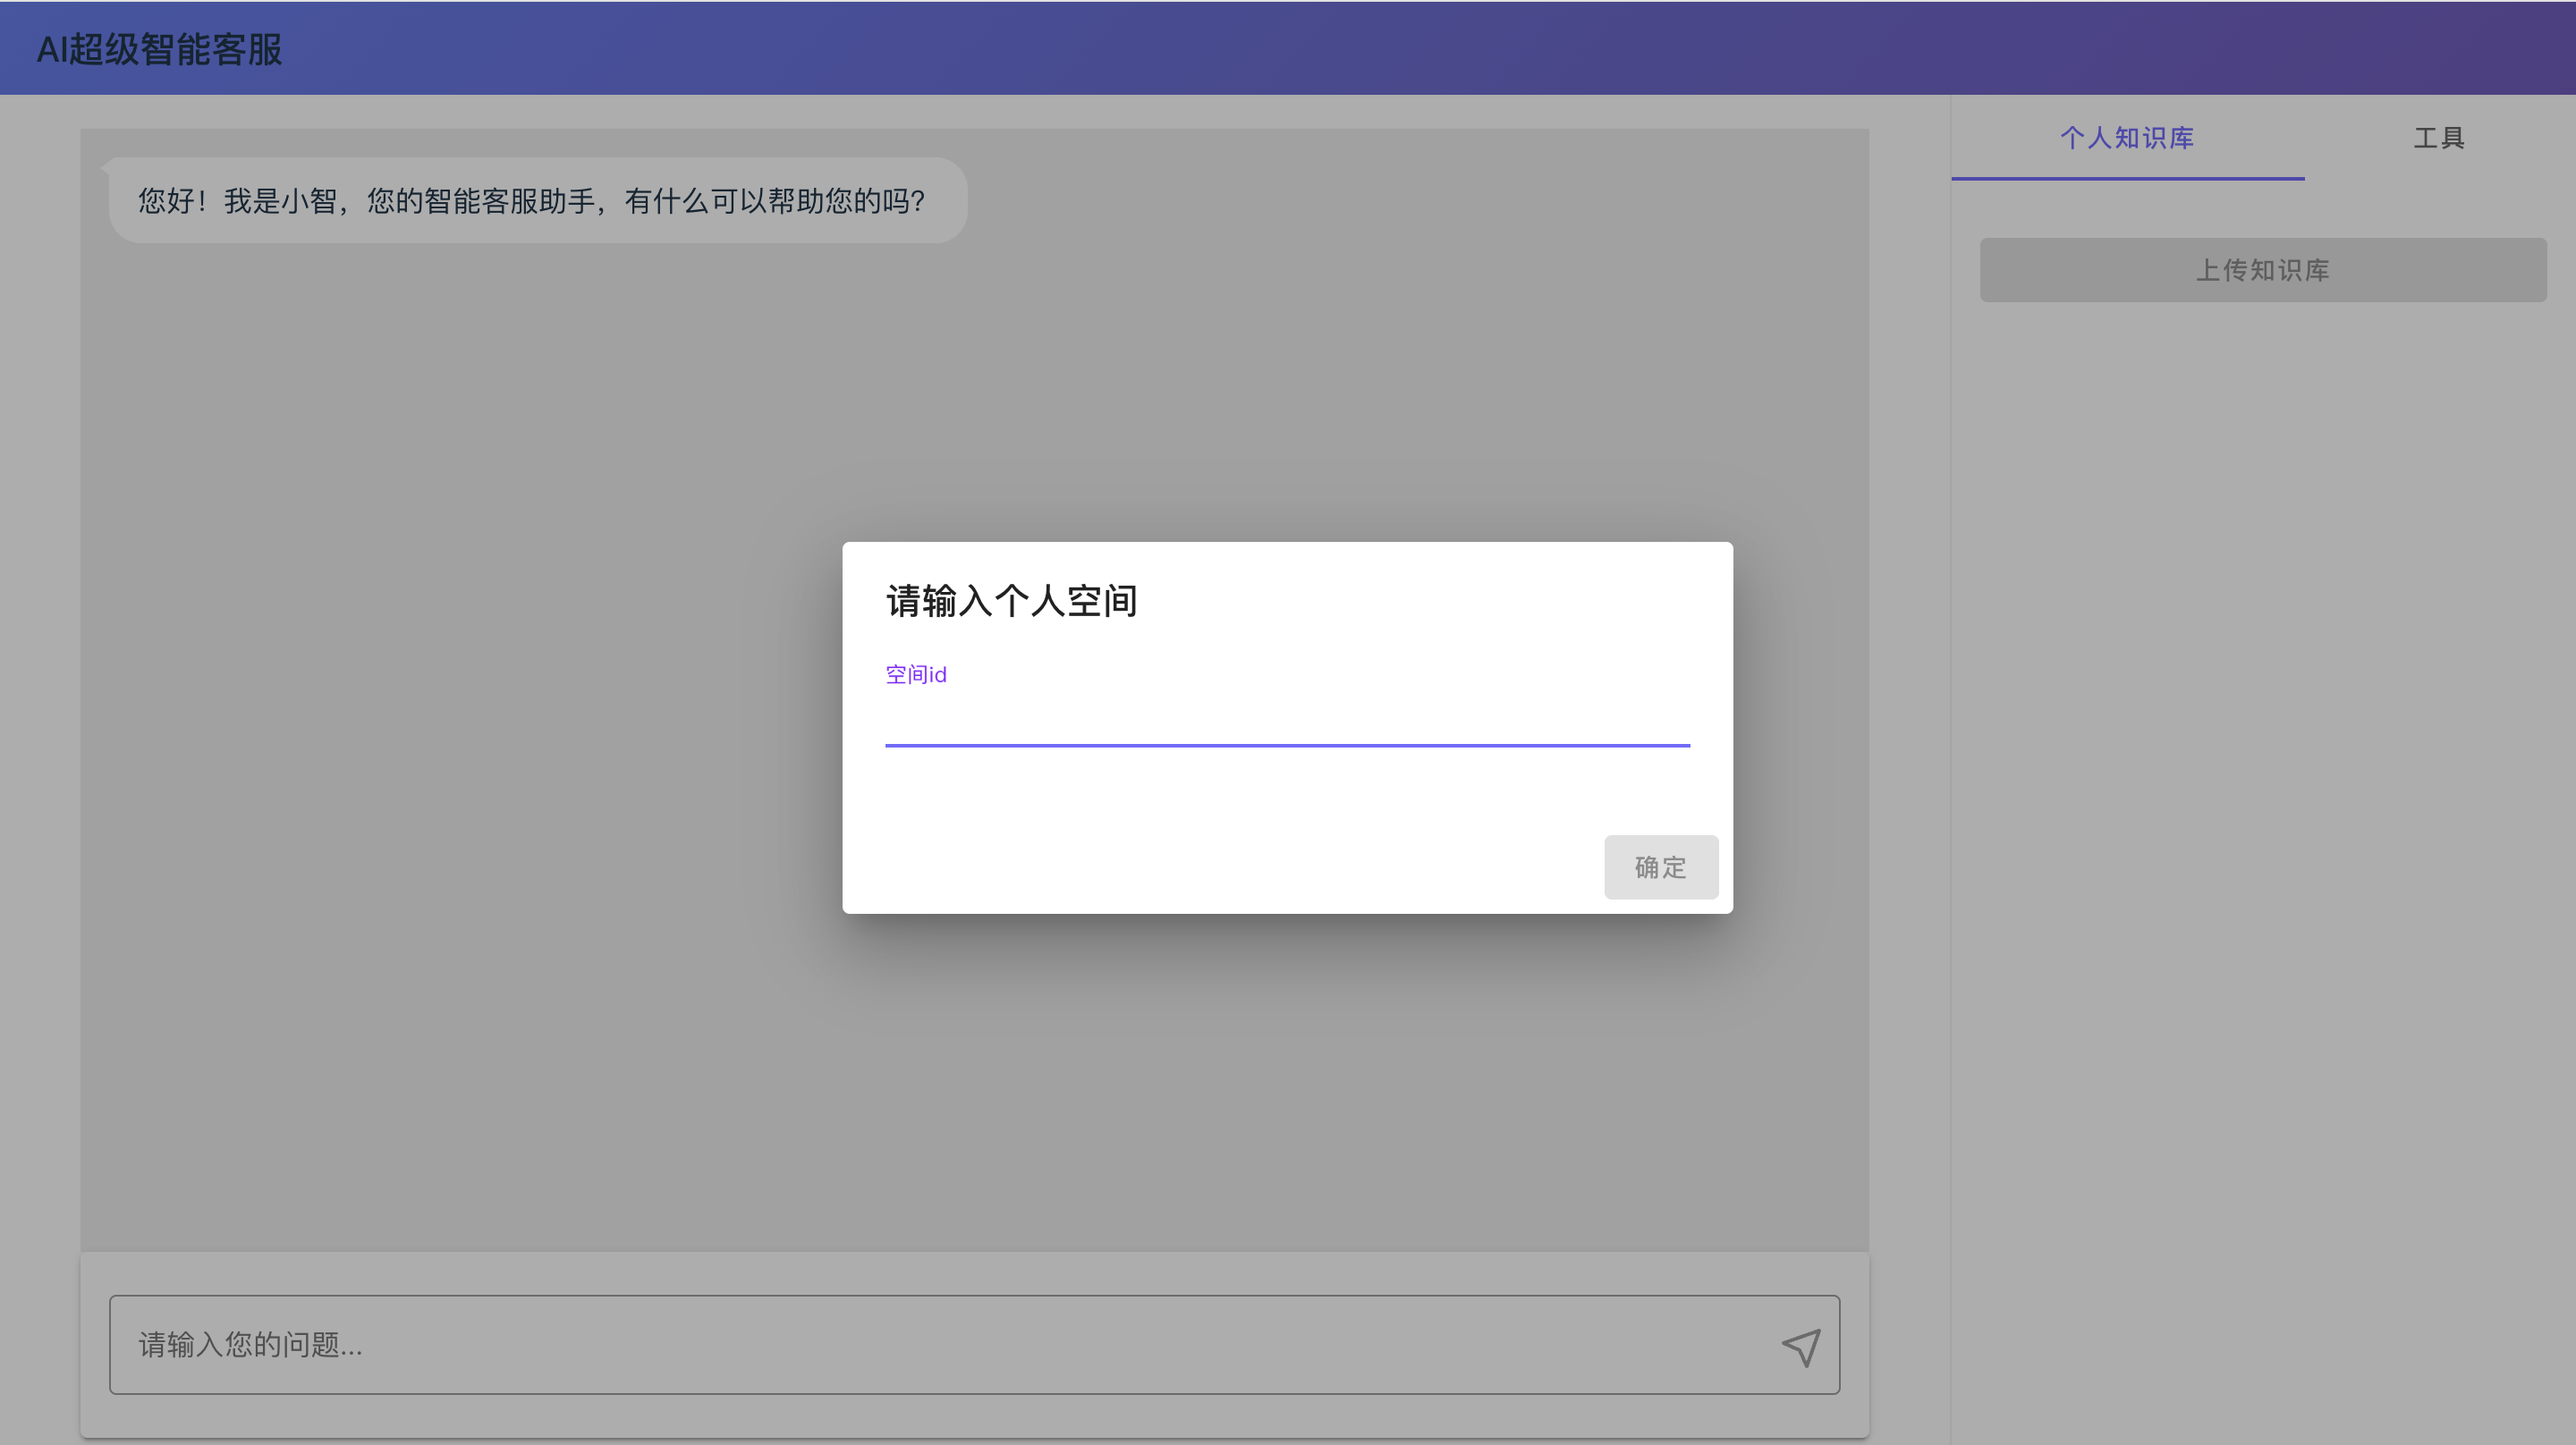
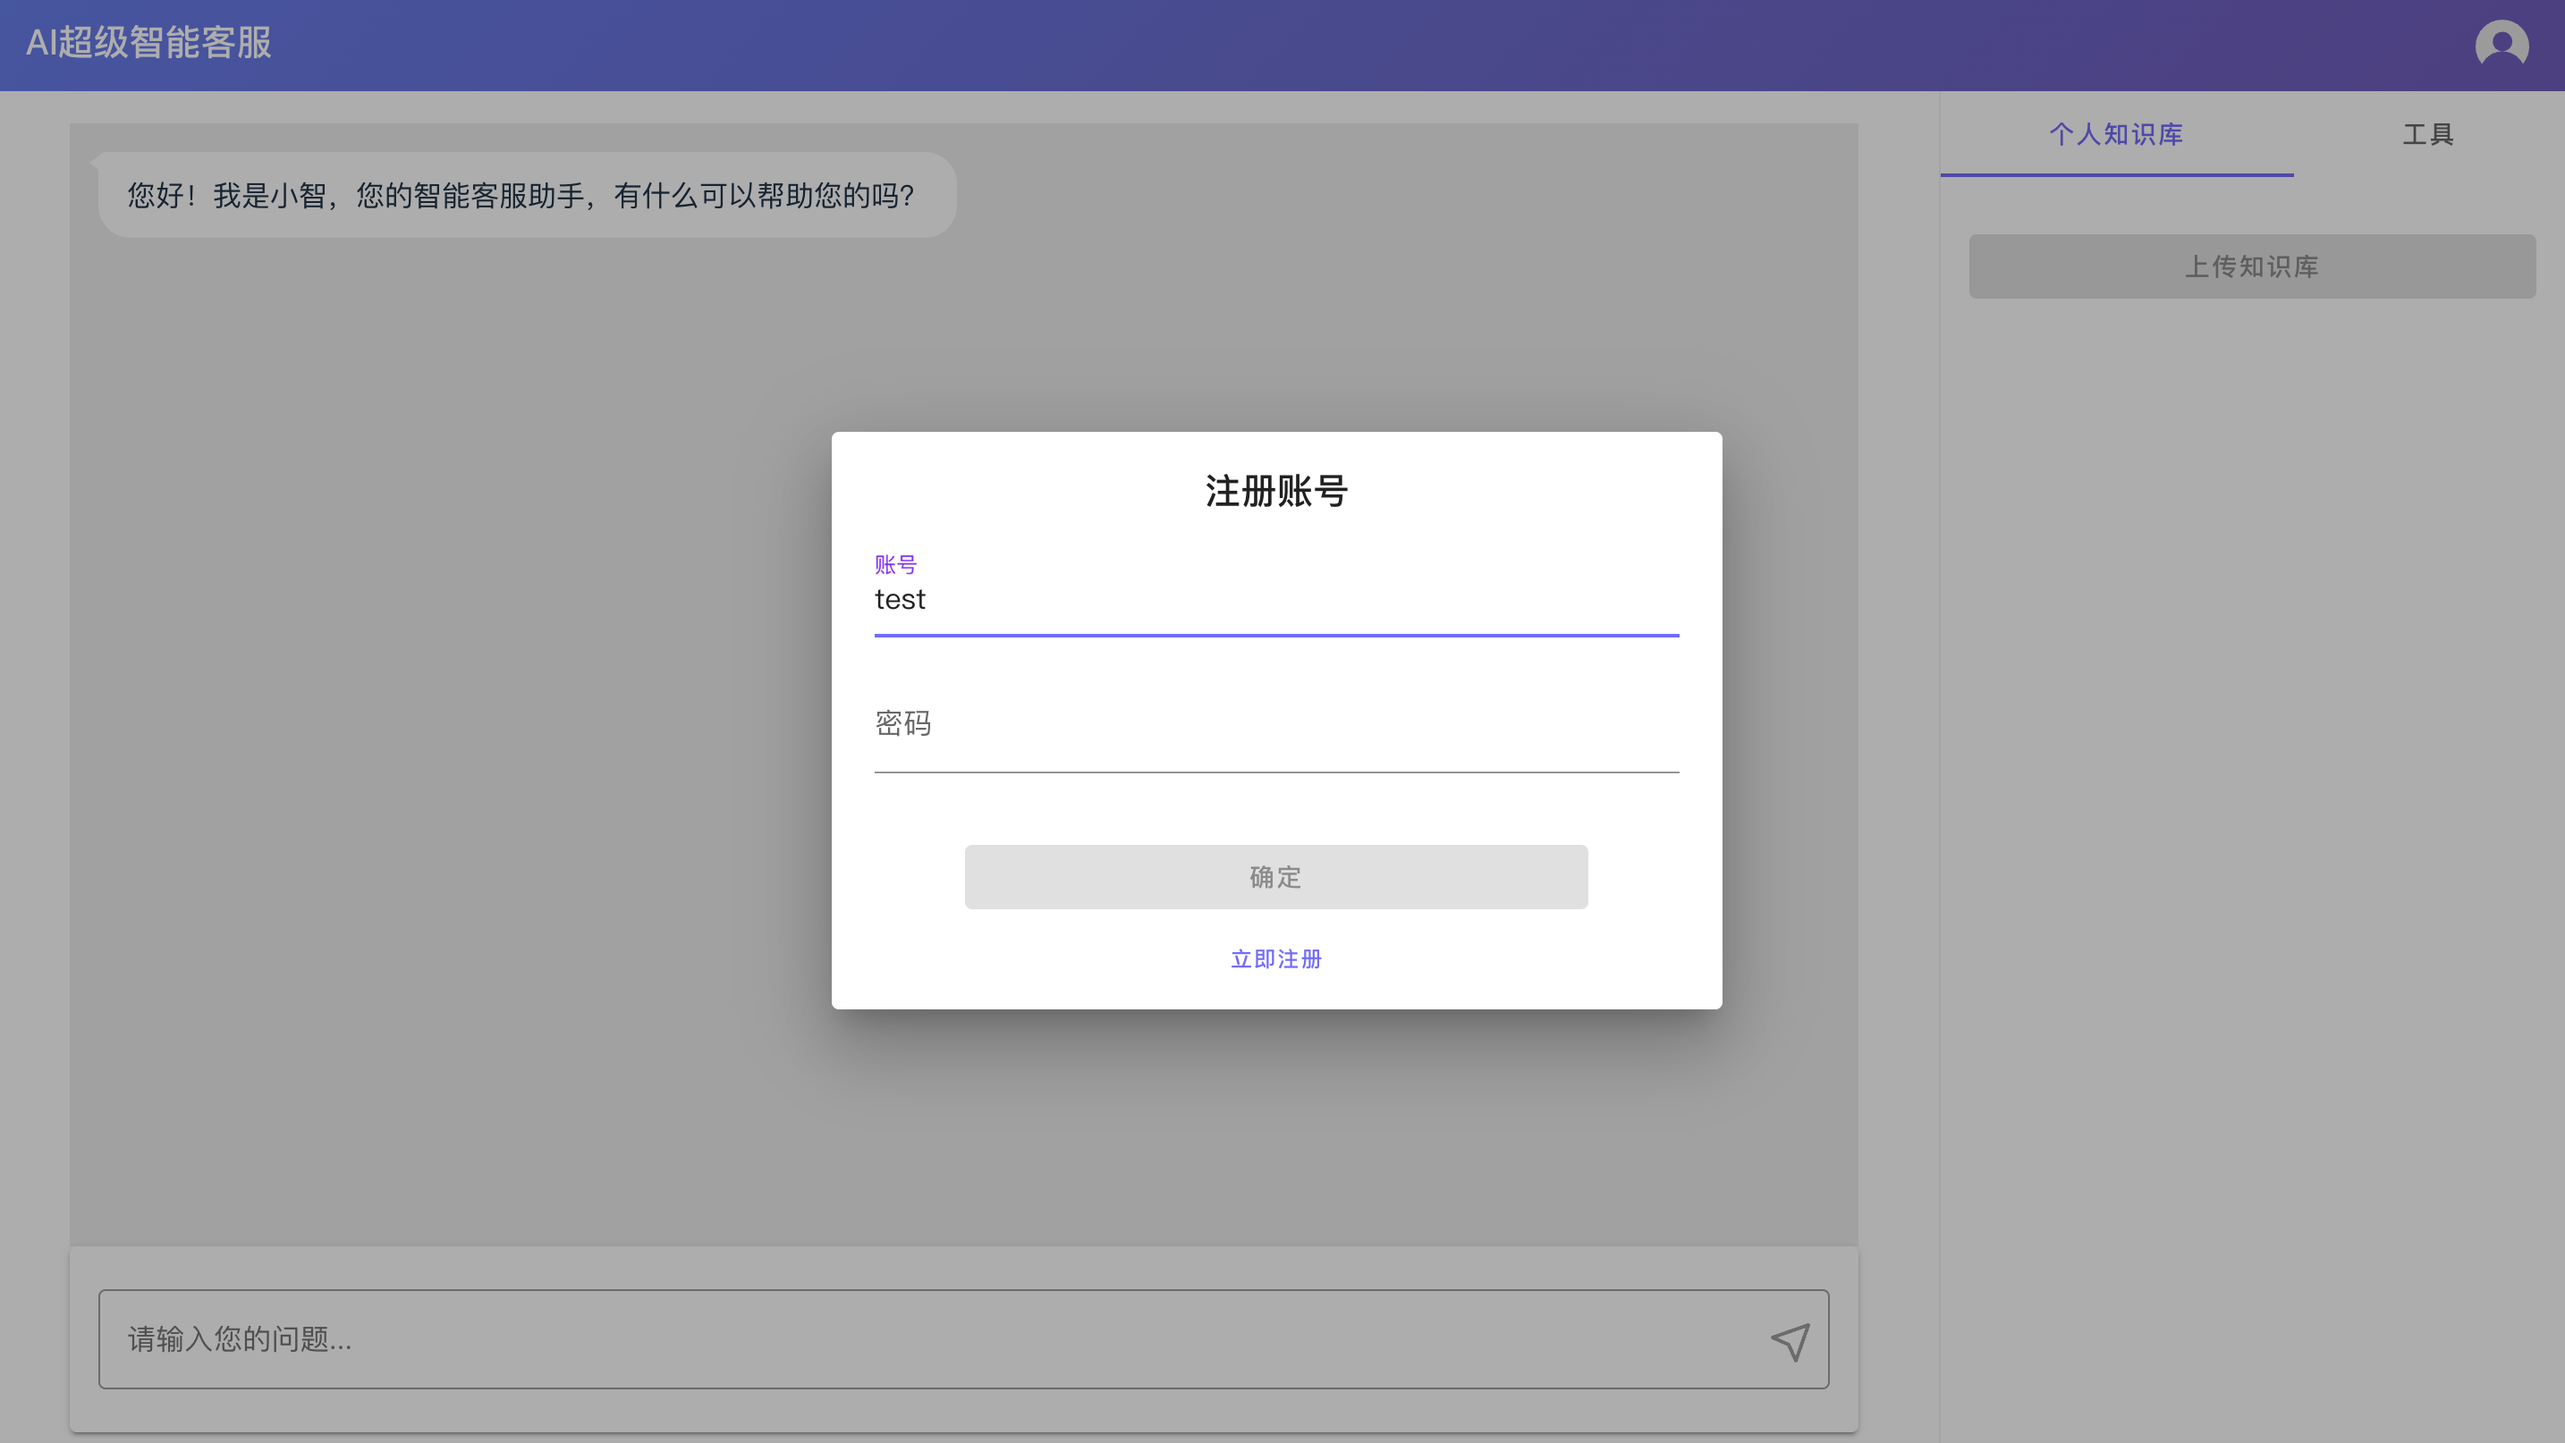
fix: 支持用户注册登录

diff --git a/README.md b/README.md
@@ -9,7 +9,7 @@
 
 
 ### RAG功能
-- 支持用户自定义专属空间，隔离用户上传的文件内容
+- 支持用户注册登录
 - 支持用户上传PDF、TXT、MD、CSV格式的文档
 - 支持向量存储和检索，基于用户上传的文档进行问答
 - 支持删除已上传的文档
